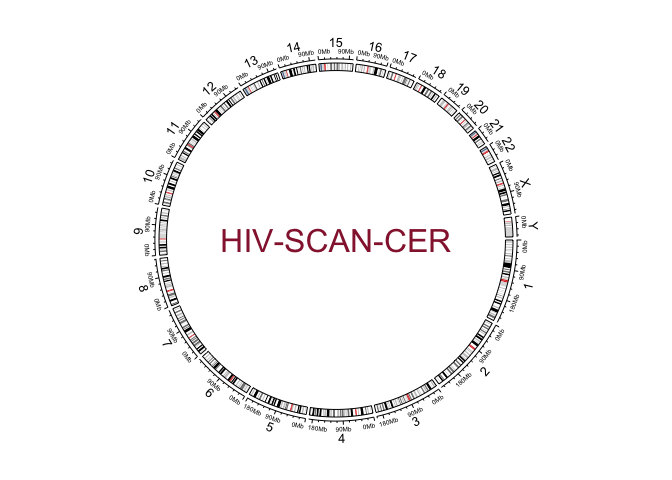
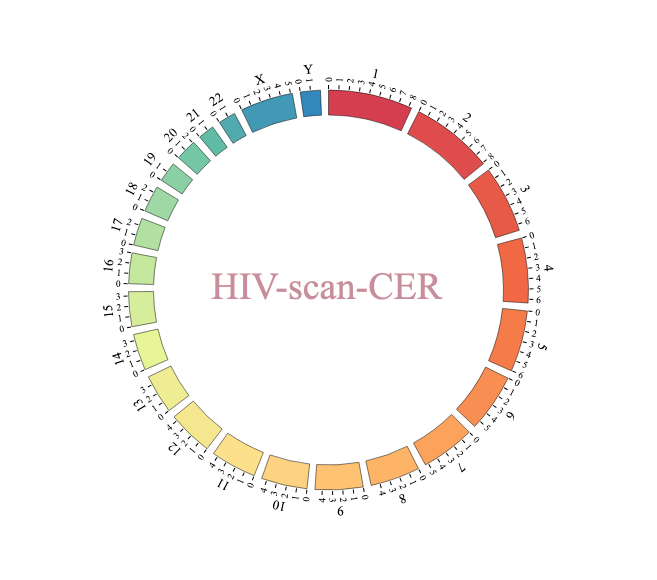
adding tracks

Changed region(s): [[0.1522, 0.0625, 0.8524, 0.9375], [0.3044, 0.4688, 0.6697, 0.5312]]

diff --git a/HIV-SCAN-CER.md b/HIV-SCAN-CER.md
@@ -1,7 +1,7 @@
 HIV-SCAN-CER
 ================
 Antoine Chaillon and Davey M Smith
-2023-12-24
+2023-12-25
 
 ------------------------------------------------------------------------
 
@@ -244,7 +244,25 @@ genes](https://pubmed.ncbi.nlm.nih.gov/10333246/).
 
 ------------------------------------------------------------------------
 
-## Examples of our findings
+## Landscape of HIV IS
+
+Only 3 tissues (tracks) per participant are shown
+
+### Participant with anal squamous cell carcinoma (SCC)
+
+![](HIV-SCAN-CER_files/figure-gfm/track-scc-1.png)<!-- -->
+
+### Participant with breast cancer
+
+![](HIV-SCAN-CER_files/figure-gfm/track-breast-1.png)<!-- -->
+
+### Participant with lung adenocarcinoma
+
+![](HIV-SCAN-CER_files/figure-gfm/track-lung-1.png)<!-- -->
+
+------------------------------------------------------------------------
+
+## Tumor and HIV lanscape
 
 ### Participant with lung cancer
 
